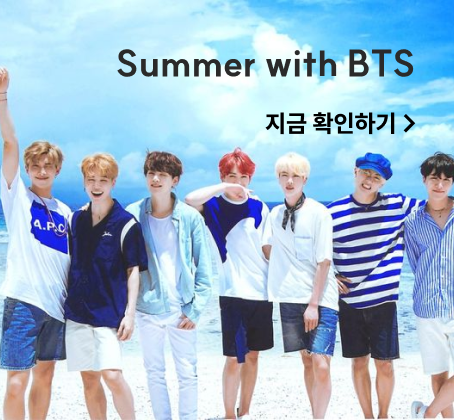
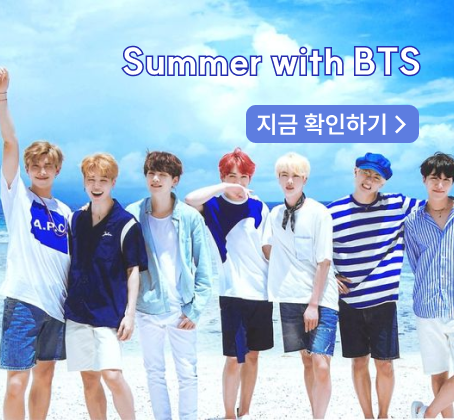
[Feat] (#103)
* [Modify] 캐러셀 이미지 변경

* [Modify] 로고 이미지 추가

---------

Changed region(s): [[0.2467, 0.0929, 0.9251, 0.1857], [0.5242, 0.2476, 0.9251, 0.3405]]

diff --git a/src/pages/LikeDetail/LikeDetail.jsx b/src/pages/LikeDetail/LikeDetail.jsx
@@ -47,7 +47,7 @@ export default function LikeDetail() {
           bgStyle="bg-white"
         />
       </div>
-      <div className="ml-4">
+      <div>
         <PhocaContainerEx biasData={likedPhotoCards} />
       </div>
     </div>
